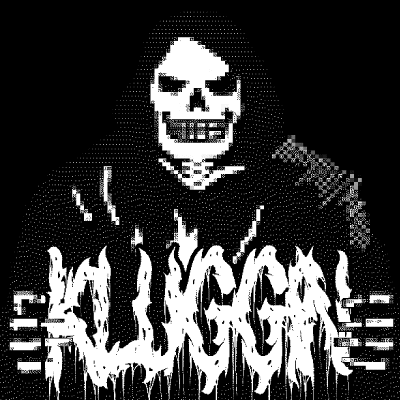
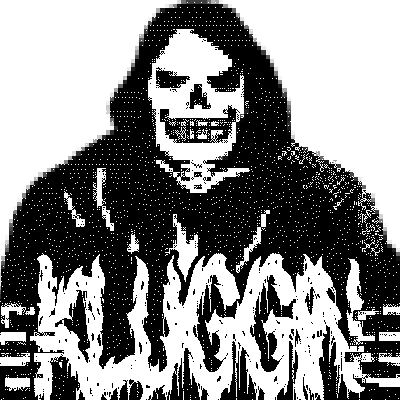
small changes

diff --git a/home.css b/home.css
@@ -203,7 +203,7 @@
   display: flex;
   align-items: center;
   flex-direction: column;
-  justify-content: flex-start;
+  justify-content: flex-end;
 }
 .home-image {
   width: 450px;
